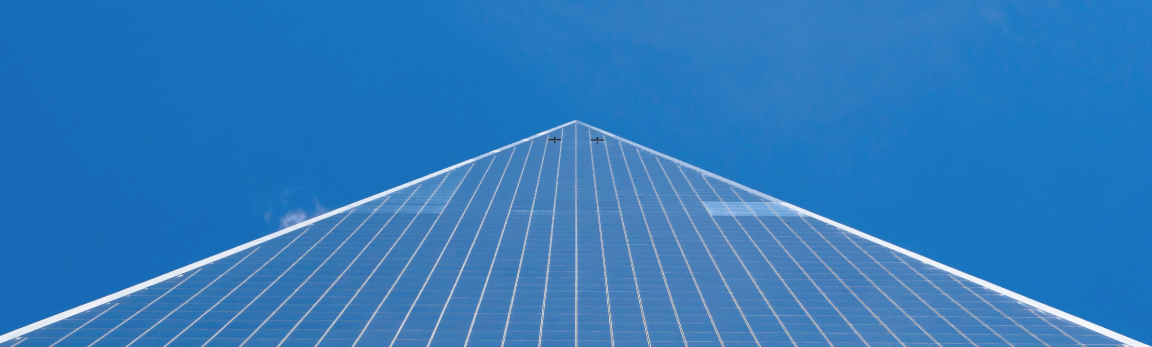
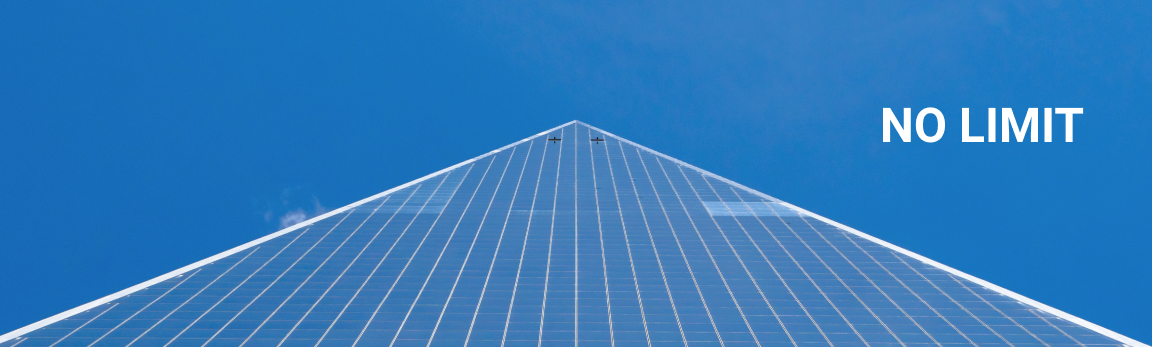
update css

Changed region(s): [[0.75, 0.2882, 0.9375, 0.4323]]

diff --git a/foretagssida-webshop/src/components/About.js b/foretagssida-webshop/src/components/About.js
@@ -12,9 +12,7 @@ function About() {
                     <h3 className="about-h3">Företagsmotto</h3>
                     <h2 className="about-h2"> När du läser en bra bok då händer alltid nåt magiskt!</h2> 
                     <p className="about-p">Vi erbjuder klassiska böcker, tidsskrifter och ljudböcker till ett förmånligt pris.</p> 
-                    <div className="about-img">
-                        <h1 className="about-img-text">NO LIMIT</h1>
-                    </div>
+                    <div className="about-img"></div>
                     <h3 className="about-h3">Medarbetare</h3>
                 <div className="personal-content">
                     {Staff.personal.map((staff, key) => <div className="personal-card" key={key}> 

diff --git a/foretagssida-webshop/src/App.css b/foretagssida-webshop/src/App.css
@@ -22,19 +22,19 @@
 /* Cuong - Om oss */
 .about-h2{
   padding: 3rem 0;
-  font-size: 3.25rem;
+  font-size: 2rem;
   font-weight: 700;
   line-height: 60px;
   color: #000000;
 }
 .about-h3{
   padding-top: 6rem;
-  font-size: 2rem;
+  font-size: 3rem;
   color: #BA3FCA;
 }
 
 .about-p{
-  font-size: 2.375rem;
+  font-size: 1.5rem;
   color: #000000;
   font-weight: 500;
   padding-bottom: 4rem;
@@ -63,7 +63,7 @@
   color:#FFFFFF;
 }
 .description-content{
-  padding: 3rem;
+  padding: 4.25rem 5rem;
 }
 
 .about-img{
@@ -77,12 +77,6 @@
   height: 387px;
   width: 100%;
   
-}
-.about-img-text{
-  font-size: 3rem;
-  color:#FFFFFF;
-  padding-top: 7rem;
-  padding-right: 25rem;
 }
 
 .personal-content{
